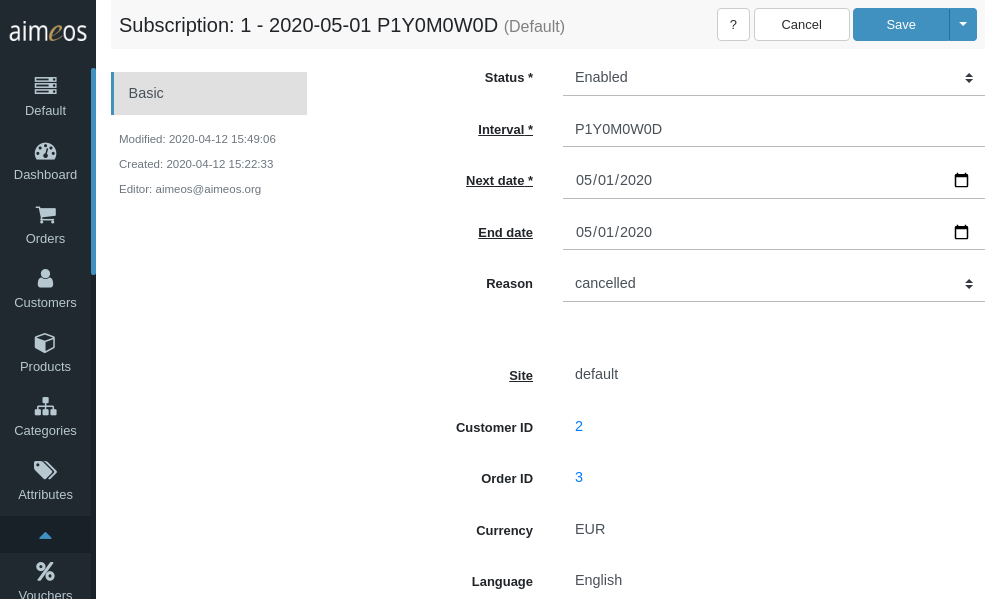
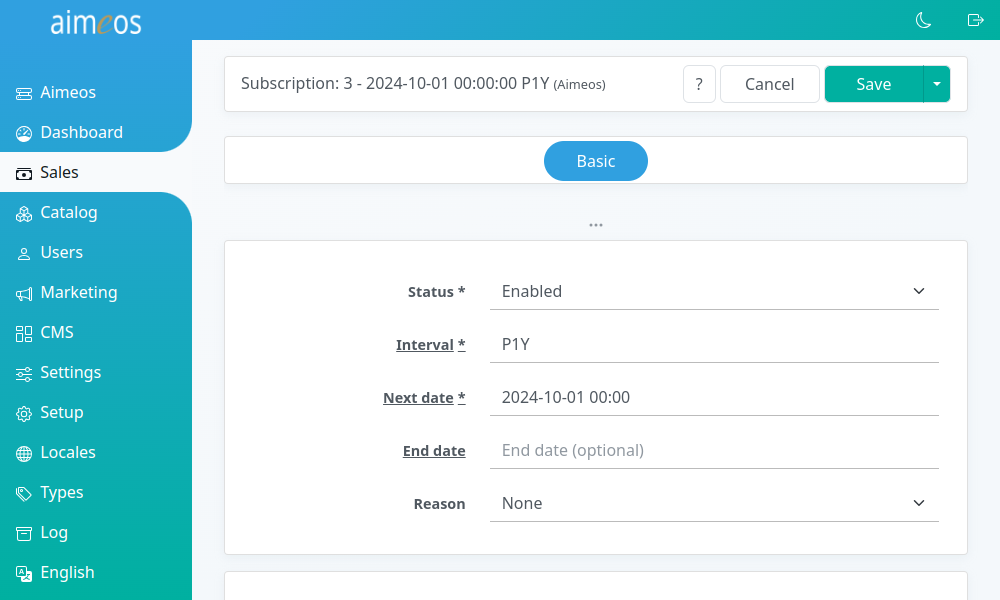
Use new screenshots for subscription details in manual

diff --git a/src/manual/subscriptions.md b/src/manual/subscriptions.md
@@ -23,7 +23,7 @@ Contrary to other list views, you can't add a subscription directly because they
 
 ![Subscription details](Admin-subscription-detail.png)
 
-The first four fields define the subscription and can be changed manually but keep care! Otherwise, it may have unexpected results!
+The first five fields define the subscription and can be changed manually but keep care! Otherwise, it may have unexpected results!
 
 Status
 : Status of the subscription. Only enabled subscriptions are renewed.
@@ -39,6 +39,8 @@ End date
 
 Reason
 : The reason why the subscription will end or has ended. Possible values are "payment" if a payment error occured or "cancelled" if the customer cancelled his subscription.
+
+![Subscription details](Admin-subscription-detail2.png)
 
 The next fields are only informational and can't be changed:
 
@@ -57,7 +59,7 @@ Currency (read-only)
 Language (read-only)
 : The language that is used within the order. For e-mails sent to the customers, the language field in their addresses has priority if available
 
-![Subscription details](Admin-subscription-detail.png)
+![Subscription details](Admin-subscription-order.png)
 
 The "Product" section contains the product that were bought by the customer as subscription.
 
